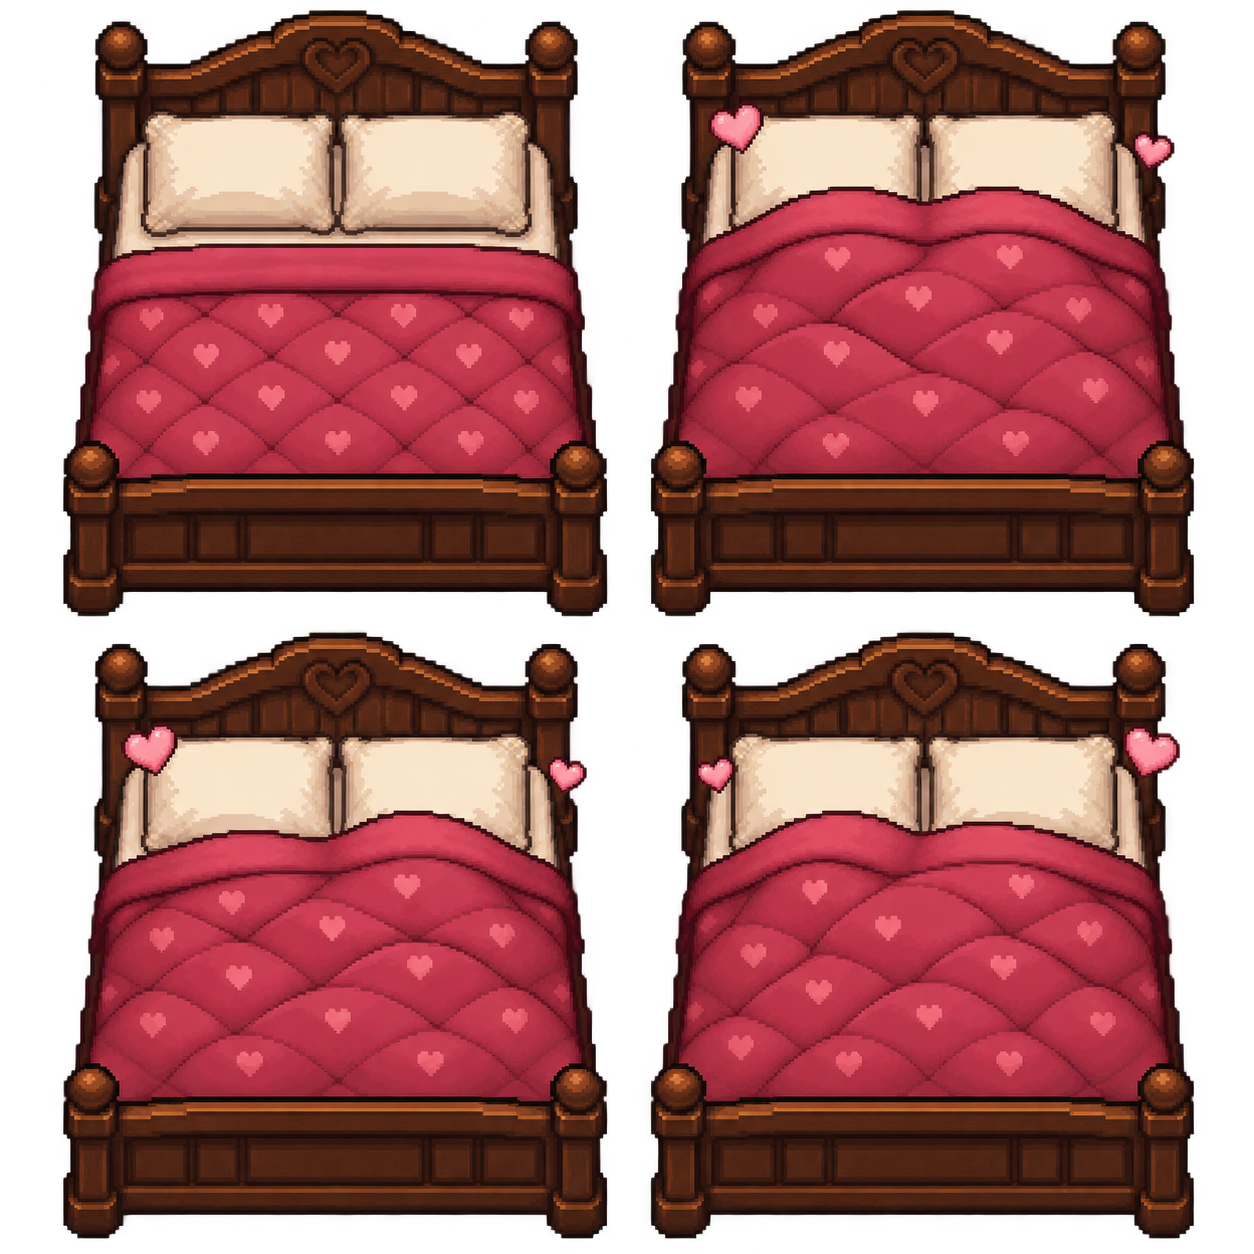
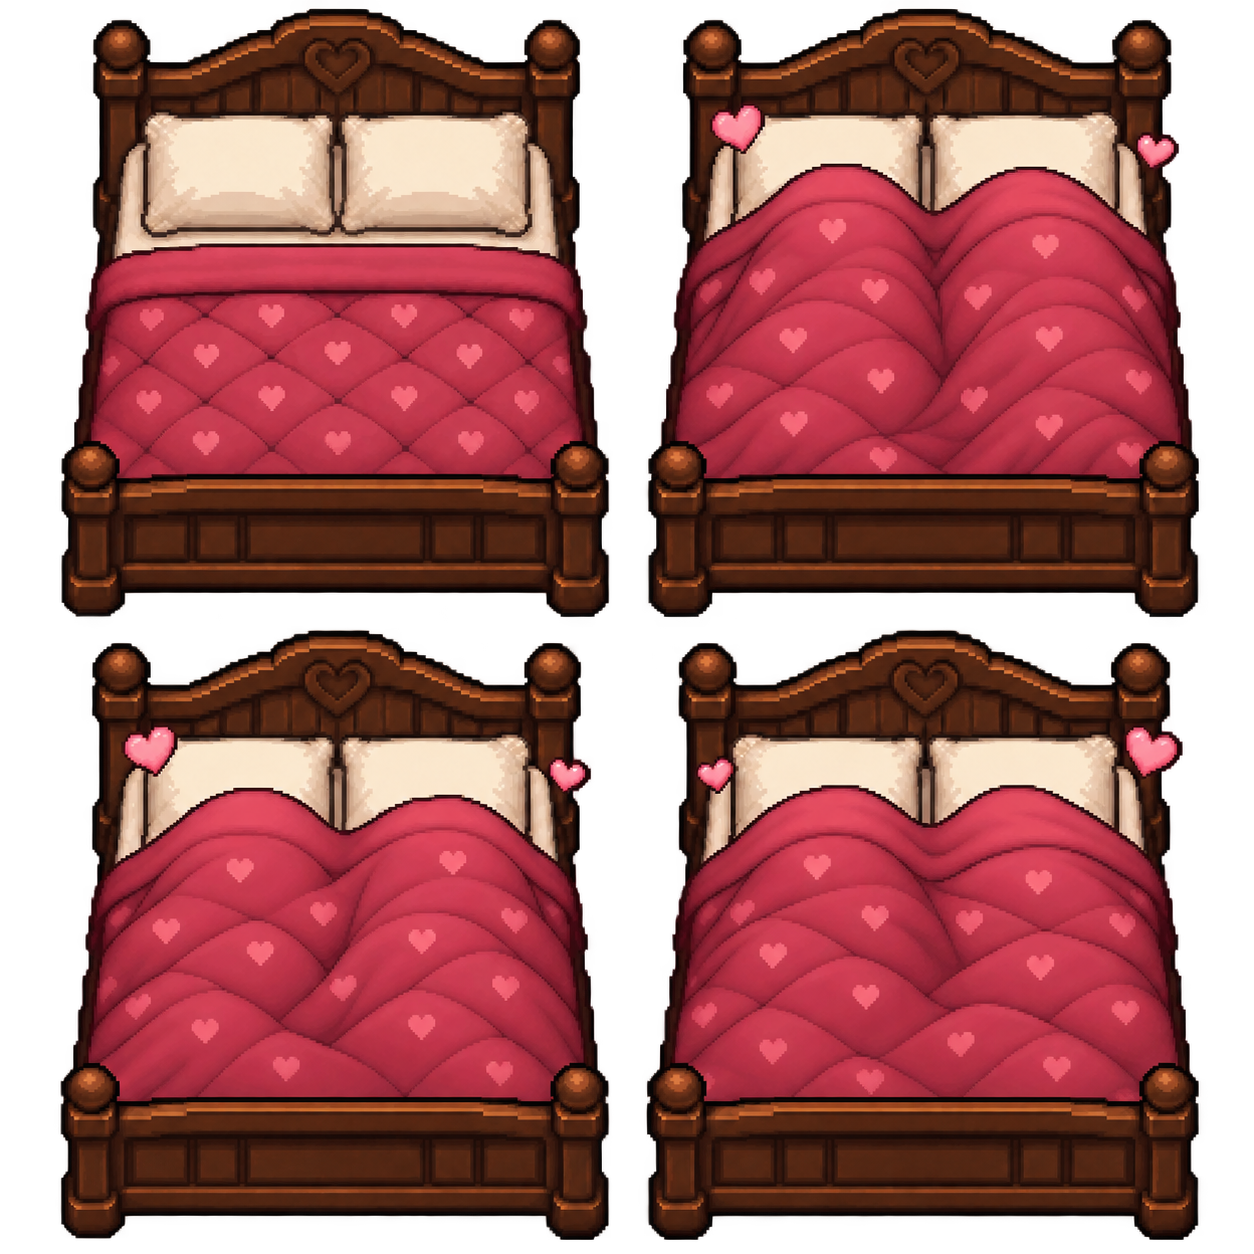
art: enlarge covered silhouettes in romantic bed animation

diff --git a/public/assets/furniture/romantic-bed.md b/public/assets/furniture/romantic-bed.md
@@ -4,6 +4,12 @@ Asset gerado com a ferramenta integrada de imagens e salvo em `romantic-bed.png`
 
 A cama aparece em **Mobília → Quarto**, ocupa 3 × 3 tiles e tem dois lugares na fileira central. Com duas pessoas sentadas em lugares diferentes, **E** envia o convite; o destinatário aceita com **E** ou pelo botão, ou recusa. A animação compartilhada dura 12 segundos e pode ser encerrada por qualquer participante com **E**, pelo botão ou ao levantar. Convites expiram após 20 segundos. Não há nudez, partes do corpo ou áudio adicional. Mensagens repetidas não restauram uma interação cancelada.
 
+Revisão visual: as duas formas sob os lençóis foram ampliadas nos três quadros de animação, mantendo o tamanho da cama e seus recortes. Edição realizada com a ferramenta integrada de imagens, preservando a transparência.
+
+Prompt da revisão:
+
+> Edit this existing pixel-art bed spritesheet. Keep the existing EXACT 1254x1254 PNG canvas and regular 2x2 grid, four 627x627 cells, the same wooden double bed, perspective, position, size, dark outlines, colors, heart-pattern rose quilt, cream pillows, transparency, and animation alignment. Keep the TOP LEFT empty idle-bed cell unchanged. Change ONLY the raised quilt forms in the other THREE cells. Make the TWO fully covered resting-person silhouettes substantially LARGER and much more readable: two distinct tall, broad, softly rounded blanket mounds, one on each half of the mattress, approximately twice the current apparent volume. Let the two forms occupy most of the mattress length from beneath the pillows toward the footboard and each about 35-40 percent of its width. Add coherent blanket folds and shading over those large covered shapes, with a subtle central valley separating them. All people remain completely concealed beneath opaque fabric; NO visible body parts, NO anatomy, NO nudity, NO explicit content, NO sexual action. These are cozy resting shapes under covers, expressed only through bedding. Preserve small floating hearts and only slight natural differences in quilt folds among the three covered frames for a gentle animation. Do not resize or move the bed, add any other object, or alter the idle frame. Preserve transparent alpha in each cell.
+
 Prompt utilizado no gerador integrado:
 
 > Use case: stylized-concept. Asset type: production pixel-art furniture sprite sheet for a top-down 2D social game. Create one transparent PNG, exactly a regular 2 by 2 grid of four equal square cells, no gutters, no labels, no text. Each cell contains the SAME double bed at identical scale, orientation and screen coordinates. Orthographic RPG three-quarter top-down FRONT view, straight headboard across top, foot of bed toward bottom; no sideways isometric slant. Cozy dark walnut wooden frame, two cream pillows side by side, raspberry rose quilt with small stitched hearts, clean readable pixel art, crisp square pixel edges, dark subtle outlines, warm palette. Bed occupies central 85 percent of every cell. Cell top left: empty idle bed with quilt folded below pillows, absolutely no people. Cell top right: same bed and identical frame and pillows, quilt raised toward pillows with very gentle rounded blanket folds, two small floating pink hearts. Cell bottom left: same covered bed, slightly different soft blanket folds and heart positions. Cell bottom right: same covered bed, another gentle fold and floating heart variation. These are romantic fade-away game furniture states; NO people visible, NO body parts, NO anatomy, NO nudity, NO explicit content, NO sexual motion. Keep bed frame completely stable between frames. Transparent background in every cell; no room, floor, shadows outside silhouette, extra props or watermark.
